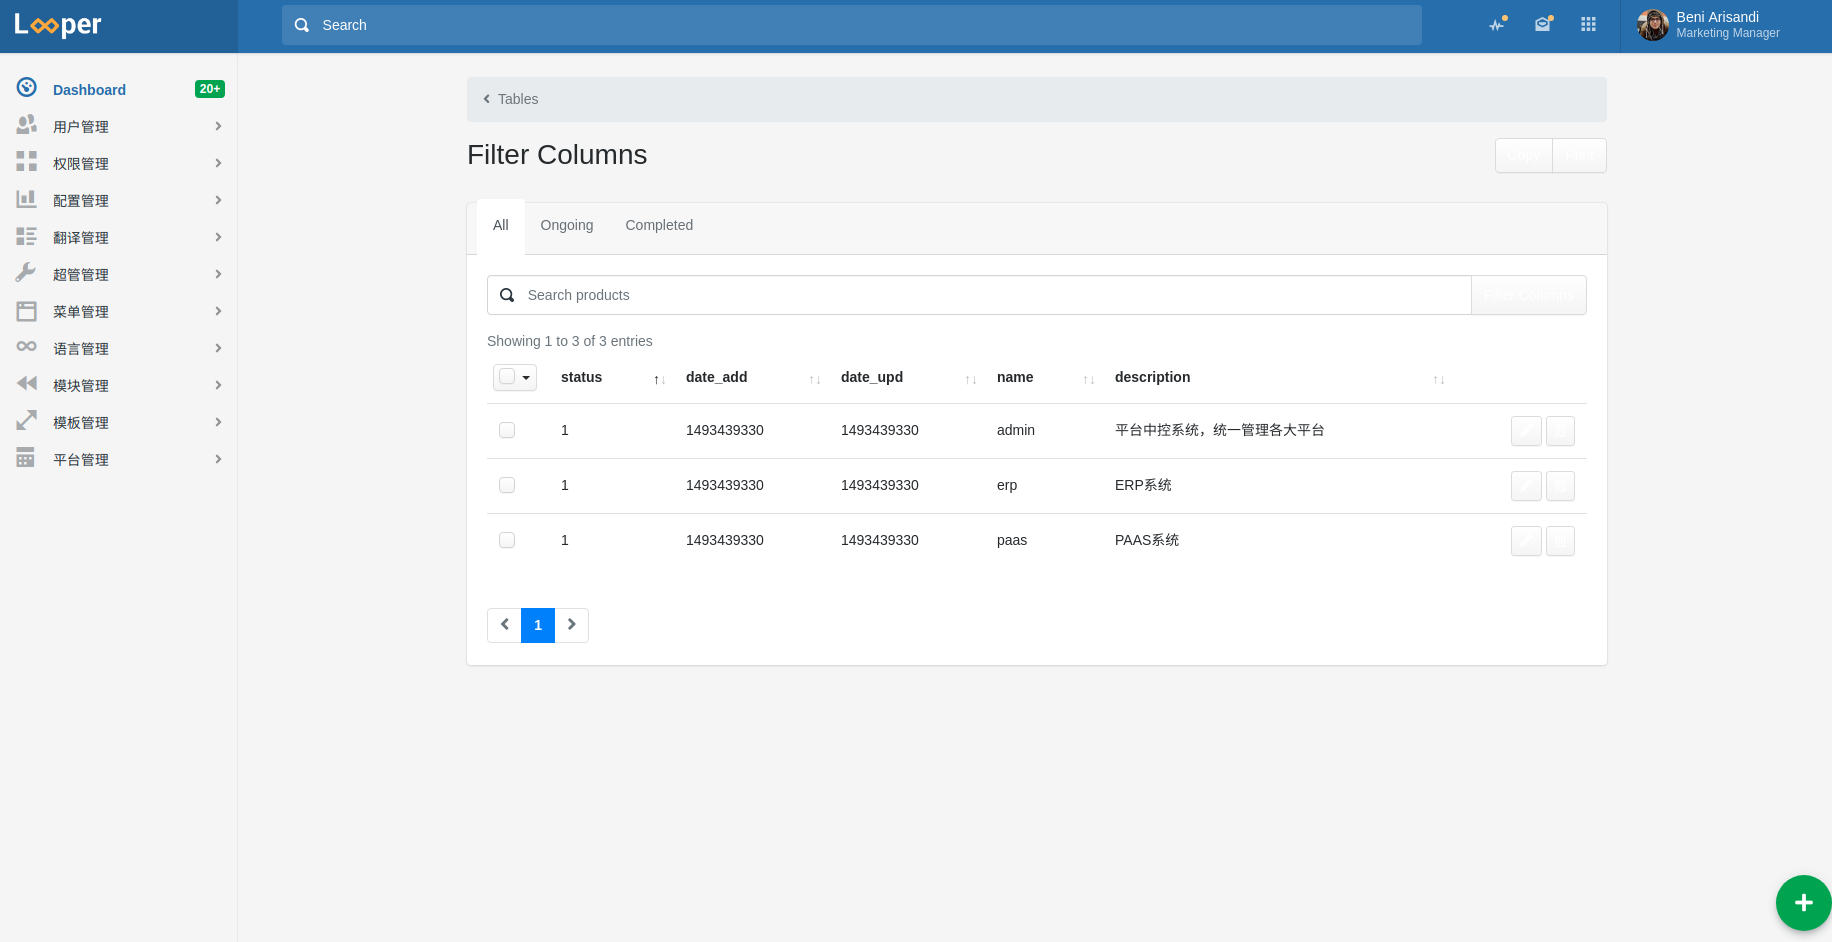
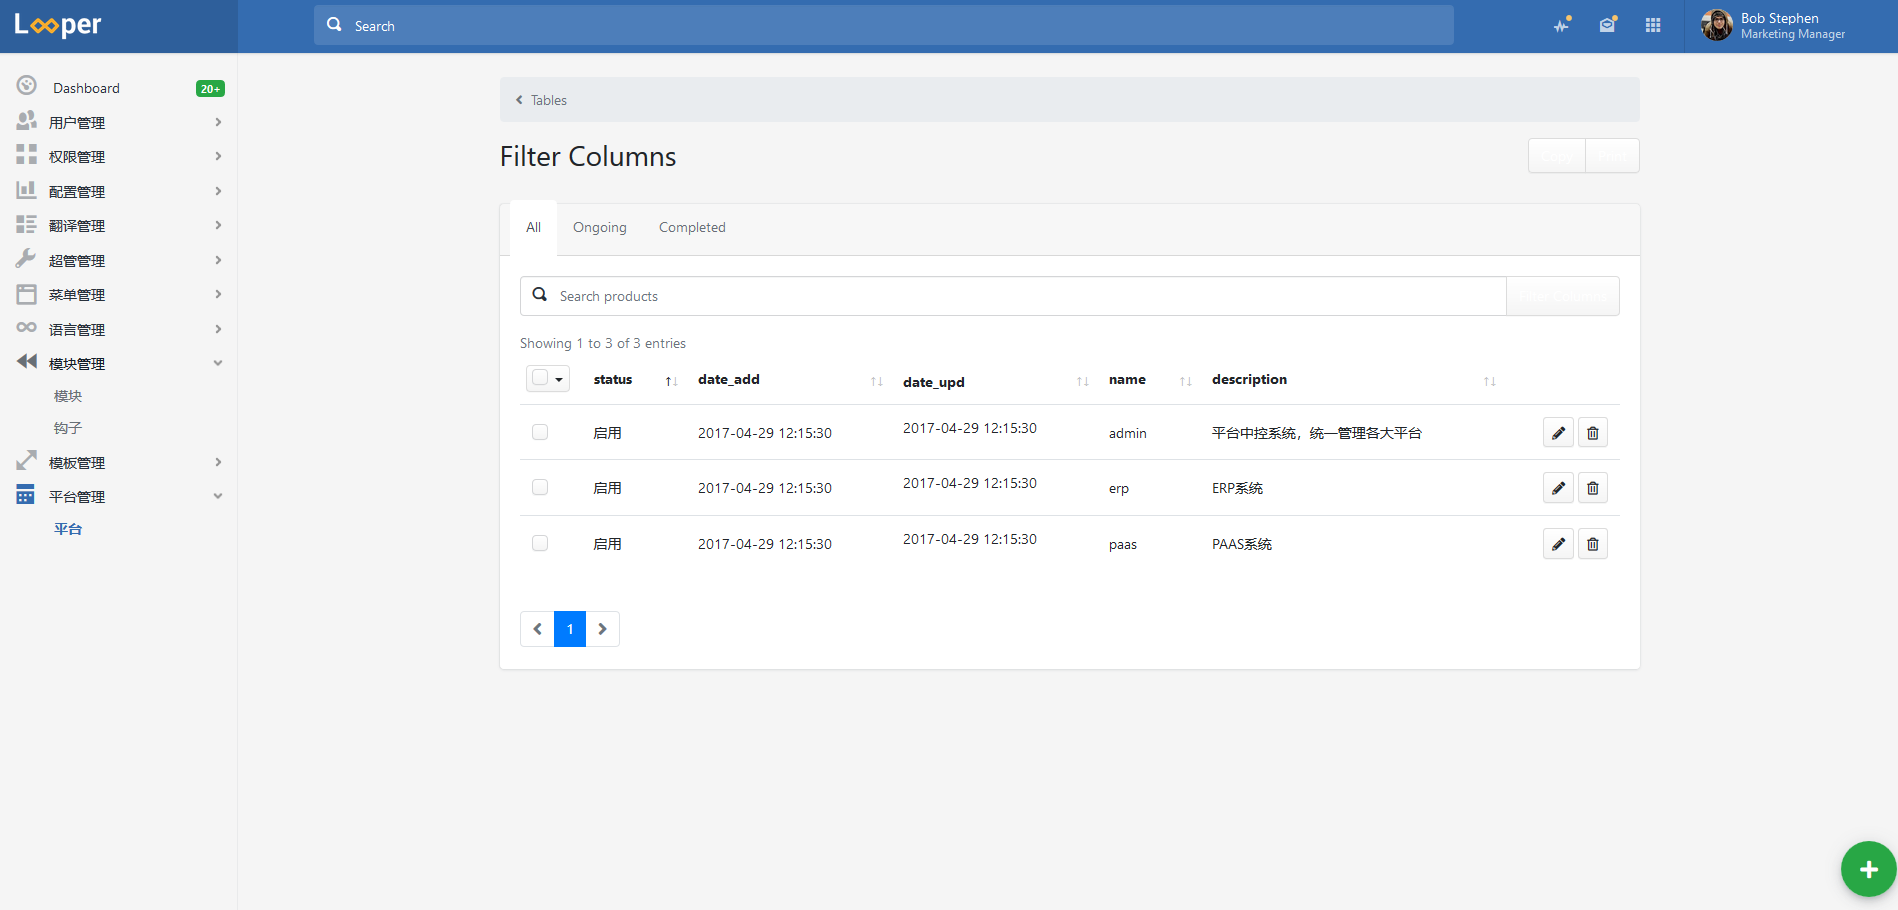
DB关联多语言完成

diff --git a/vendor/Hook/Sql/Install.php b/vendor/Hook/Sql/Install.php
@@ -205,7 +205,7 @@ CREATE TABLE `hp_hook_lang` (
   CONSTRAINT `FK_000015` FOREIGN KEY (`hook_id`) REFERENCES `hp_hook` (`id`) ON DELETE CASCADE ON UPDATE CASCADE,
   CONSTRAINT `FK_000016` FOREIGN KEY (`lang_id`) REFERENCES `hp_lang` (`id`) ON DELETE CASCADE ON UPDATE CASCADE
 ) ENGINE=InnoDB AUTO_INCREMENT=2 DEFAULT CHARSET=utf8mb4 COLLATE=utf8mb4_general_ci;
-INSERT INTO `hp_hook_lang` VALUES (1,1,1,'头部钩子','这里显示头部的钩子','所有头部的钩子按顺序依次显示在这里。');
+INSERT INTO `hp_hook_lang` VALUES (1,1,1,'顶部钩子','这里显示顶部的钩子','所有顶部的钩子按顺序依次显示在这里。'),(2,2,1,'头部钩子','这里显示头部的钩子','所有头部的钩子按顺序依次显示在这里。'),(3,3,1,'尾部钩子','这里显示尾部的钩子','所有尾部的钩子按顺序依次显示在这里。');
 
 CREATE TABLE `hp_hook_module` (
   `id` int(10) unsigned NOT NULL AUTO_INCREMENT,
@@ -250,7 +250,7 @@ CREATE TABLE `hp_manager` (
   KEY `lang_id` (`lang_id`) USING BTREE,
   CONSTRAINT `FK_000034` FOREIGN KEY (`lang_id`) REFERENCES `hp_lang` (`id`) ON DELETE CASCADE ON UPDATE CASCADE
 ) ENGINE=InnoDB AUTO_INCREMENT=2 DEFAULT CHARSET=utf8mb4 COLLATE=utf8mb4_general_ci;
-INSERT INTO `hp_manager` VALUES (1,1,1,1493439330,1493439330,'admin@hookphp.com','\$argon2i\$v=19\$m=1024,t=2,p=2\$c2NtWmdCb255NGZZUFBOLw\$Hoi3pZx1vlPKT6nwtcu9/zyAppezbxKAOW2u1EmtxqA','','','bobstephen','');
+INSERT INTO `hp_manager` VALUES (1,1,1,1493439330,1493439330,'admin@hookphp.com','\$argon2i\$v=19\$m=1024,t=2,p=2\$c2NtWmdCb255NGZZUFBOLw\$Hoi3pZx1vlPKT6nwtcu9/zyAppezbxKAOW2u1EmtxqA','','','Stephen','Bob');
 
 CREATE TABLE `hp_menu` (
   `id` int(10) unsigned NOT NULL AUTO_INCREMENT,
@@ -325,6 +325,6 @@ CREATE TABLE `hp_user` (
   KEY `lang_id` (`lang_id`) USING BTREE,
   CONSTRAINT `FK_000021` FOREIGN KEY (`lang_id`) REFERENCES `hp_lang` (`id`) ON DELETE SET NULL ON UPDATE CASCADE
 ) ENGINE=InnoDB AUTO_INCREMENT=2 DEFAULT CHARSET=utf8mb4 COLLATE=utf8mb4_general_ci;
-INSERT INTO `hp_user` VALUES (1,1,1,1493439330,1493439330,'test@hotmail.com','\$argon2i\$v=19\$m=1024,t=2,p=2\$c2NtWmdCb255NGZZUFBOLw\$Hoi3pZx1vlPKT6nwtcu9/zyAppezbxKAOW2u1EmtxqA','','','bobstephen','');
+INSERT INTO `hp_user` VALUES (1,1,1,1493439330,1493439330,'test@hotmail.com','\$argon2i\$v=19\$m=1024,t=2,p=2\$c2NtWmdCb255NGZZUFBOLw\$Hoi3pZx1vlPKT6nwtcu9/zyAppezbxKAOW2u1EmtxqA','','','Stephen','Bob');
 ";
 }

diff --git a/app/admin/models/Abstract.php b/app/admin/models/Abstract.php
@@ -1,5 +1,6 @@
 <?php
 use Hook\Db\{PdoConnect,RedisConnect,Table};
+use Hook\Cache\Cache;
 
 abstract class AbstractModel
 {
@@ -23,11 +24,21 @@ abstract class AbstractModel
         }
     }
 
-    public static function read(string $table, int $id): array
+    public static function get(string $table, int $id = 0, int $langId = 0): array
     {
+        $data = &Cache::static(__METHOD__);
+        if (isset($data[$table][$id][$langId])) {
+            return $data[$table][$id][$langId];
+        }
+
+        if ($langId > 0) {
+            $id .= '_'.$langId;
+        }
+
         $key = 'table:'.$table;
         $redis = RedisConnect::getInstance()->redis;
-        return $id === 0 ? array_values($redis->hGetAll($key)) : $redis->hGet($key, $id);
+        $data[$table][$id][$langId]  = strpos($id, '0') === 0 ? array_values($redis->hGetAll($key)) : $redis->hGet($key, $id);
+        return $data[$table][$id][$langId];
     }
 
     public function create(): int

diff --git a/vendor/Hook/Db/Table.php b/vendor/Hook/Db/Table.php
@@ -165,6 +165,16 @@ class Table
         $redis = RedisConnect::getInstance()->redis;
         $key = 'table:'.$this->table;
         $redis->del($key);
-        return $redis->hMset($key, $this->read(['COLUMN' => ['id', '*'], 'TYPE' => \PDO::FETCH_ASSOC | \PDO::FETCH_UNIQUE]));
+        $data = $this->read(['COLUMN' => ['id', '*'], 'TYPE' => \PDO::FETCH_ASSOC | \PDO::FETCH_UNIQUE]);
+        $flag = explode('_', $this->table);
+        $max = count($flag) - 1;
+        if ($max > 1 && $flag[$max] === 'lang') {
+            $temp = [];
+            foreach ($data as &$v) {
+                $temp[$v[$flag[$max-1].'_id'].'_'.$v['lang_id']] = $v;
+            }
+            $data = $temp;
+        }
+        return $redis->hMset($key, $data);
     }
 }

diff --git a/app/admin/modules/Api/controllers/Menu.php b/app/admin/modules/Api/controllers/Menu.php
@@ -9,7 +9,14 @@ class MenuController extends AbstractController
 
     public function GETAction()
     {
-        return $this->send($this->model->read($this->model->table));
+        $data = $this->model->read();
+        foreach ($data as &$v) {
+            $v['app_id'] = $this->model::get('hp_app', $v['app_id'])['name'];
+            $v['name'] = $this->model::get('hp_menu_lang', $v['id'], $_SESSION[APP_NAME]['lang_id'])['name'];
+            $v['parent'] = $this->model::get('hp_menu_lang', (int) $v['parent'], $_SESSION[APP_NAME]['lang_id'])['name'] ?? '';
+            $v['status'] = l('status.'.$v['status']);
+        }
+        return $this->send($data);
     }
 
     public function POSTAction()

diff --git a/app/admin/modules/Api/controllers/Acl/User.php b/app/admin/modules/Api/controllers/Acl/User.php
@@ -9,7 +9,13 @@ class Acl_UserController extends AbstractController
     
     public function GETAction()
     {
-        return $this->send($this->model->read($this->model->table));
+        $data = $this->model->read();
+        foreach ($data as &$v) {
+            $v['user_id'] = $this->model::get('hp_user', $v['user_id'])['firstname'].' '.$this->model::get('hp_user', $v['user_id'])['lastname'];
+            $v['role_id'] = $this->model::get('hp_acl_role_lang', $v['role_id'], $_SESSION[APP_NAME]['lang_id'])['name'];
+            $v['status'] = l('status.'.$v['status']);
+        }
+        return $this->send($data);
     }
     
     public function POSTAction()

diff --git a/app/admin/modules/Api/controllers/Acl/Index.php b/app/admin/modules/Api/controllers/Acl/Index.php
@@ -9,7 +9,13 @@ class Acl_IndexController extends AbstractController
     
     public function GETAction()
     {
-        return $this->send($this->model->read($this->model->table));
+        $data = $this->model->read();
+        foreach ($data as &$v) {
+            $v['group_id'] = $this->model::get('hp_acl_group_lang', $v['group_id'], $_SESSION[APP_NAME]['lang_id'])['name'];
+            $v['resource_id'] = $this->model::get('hp_acl_resource_lang', $v['resource_id'], $_SESSION[APP_NAME]['lang_id'])['name'];
+            $v['status'] = l('status.'.$v['status']);
+        }
+        return $this->send($data);
     }
     
     public function POSTAction()

diff --git a/app/admin/modules/Api/controllers/Hook/Module.php b/app/admin/modules/Api/controllers/Hook/Module.php
@@ -9,7 +9,12 @@ class Hook_ModuleController extends AbstractController
     
     public function GETAction()
     {
-        return $this->send($this->model->read($this->model->table));
+        $data = $this->model->read();
+        foreach ($data as &$v) {
+            $v['hook_id'] = $this->model::get('hp_hook_lang', $v['hook_id'], $_SESSION[APP_NAME]['lang_id'])['name'];
+            $v['module_id'] = $this->model::get('hp_module', $v['module_id'])['name'];
+        }
+        return $this->send($data);
     }
     
     public function POSTAction()

diff --git a/app/admin/modules/Api/controllers/User/Index.php b/app/admin/modules/Api/controllers/User/Index.php
@@ -9,7 +9,12 @@ class User_IndexController extends AbstractController
 
     public function GETAction()
     {
-        return $this->send($this->model->read($this->model->table));
+        $data = $this->model->read();
+        foreach ($data as &$v) {
+            $v['lang_id'] = $this->model::get('hp_lang', $v['lang_id'])['name'];
+            $v['status'] = l('status.'.$v['status']);
+        }
+        return $this->send($data);
     }
 
     public function POSTAction()

diff --git a/app/admin/modules/Api/controllers/Manager.php b/app/admin/modules/Api/controllers/Manager.php
@@ -9,7 +9,12 @@ class ManagerController extends AbstractController
 
     public function GETAction()
     {
-        return $this->send($this->model->read($this->model->table));
+        $data = $this->model->read();
+        foreach ($data as &$v) {
+            $v['lang_id'] = $this->model::get('hp_lang', $v['lang_id'])['name'];
+            $v['status'] = l('status.'.$v['status']);
+        }
+        return $this->send($data);
     }
 
     public function POSTAction()

diff --git a/app/admin/modules/Api/controllers/Config.php b/app/admin/modules/Api/controllers/Config.php
@@ -9,7 +9,11 @@ class ConfigController extends AbstractController
 
     public function GETAction()
     {
-        return $this->send($this->model->read($this->model->table));
+        $data = $this->model->read();
+        foreach ($data as &$v) {
+            $v['app_id'] = $this->model::get('hp_app', $v['app_id'])['name'];
+        }
+        return $this->send($data);
     }
 
     public function POSTAction()

diff --git a/app/admin/modules/Api/controllers/Acl/Resource.php b/app/admin/modules/Api/controllers/Acl/Resource.php
@@ -9,7 +9,11 @@ class Acl_ResourceController extends AbstractController
     
     public function GETAction()
     {
-        return $this->send($this->model->read($this->model->table));
+        $data = $this->model->read();
+        foreach ($data as &$v) {
+            $v['status'] = l('status.'.$v['status']);
+        }
+        return $this->send($data);
     }
     
     public function POSTAction()

diff --git a/app/admin/modules/Api/controllers/Acl/Group.php b/app/admin/modules/Api/controllers/Acl/Group.php
@@ -9,7 +9,11 @@ class Acl_GroupController extends AbstractController
     
     public function GETAction()
     {
-        return $this->send($this->model->read($this->model->table));
+        $data = $this->model->read();
+        foreach ($data as &$v) {
+            $v['status'] = l('status.'.$v['status']);
+        }
+        return $this->send($data);
     }
     
     public function POSTAction()
